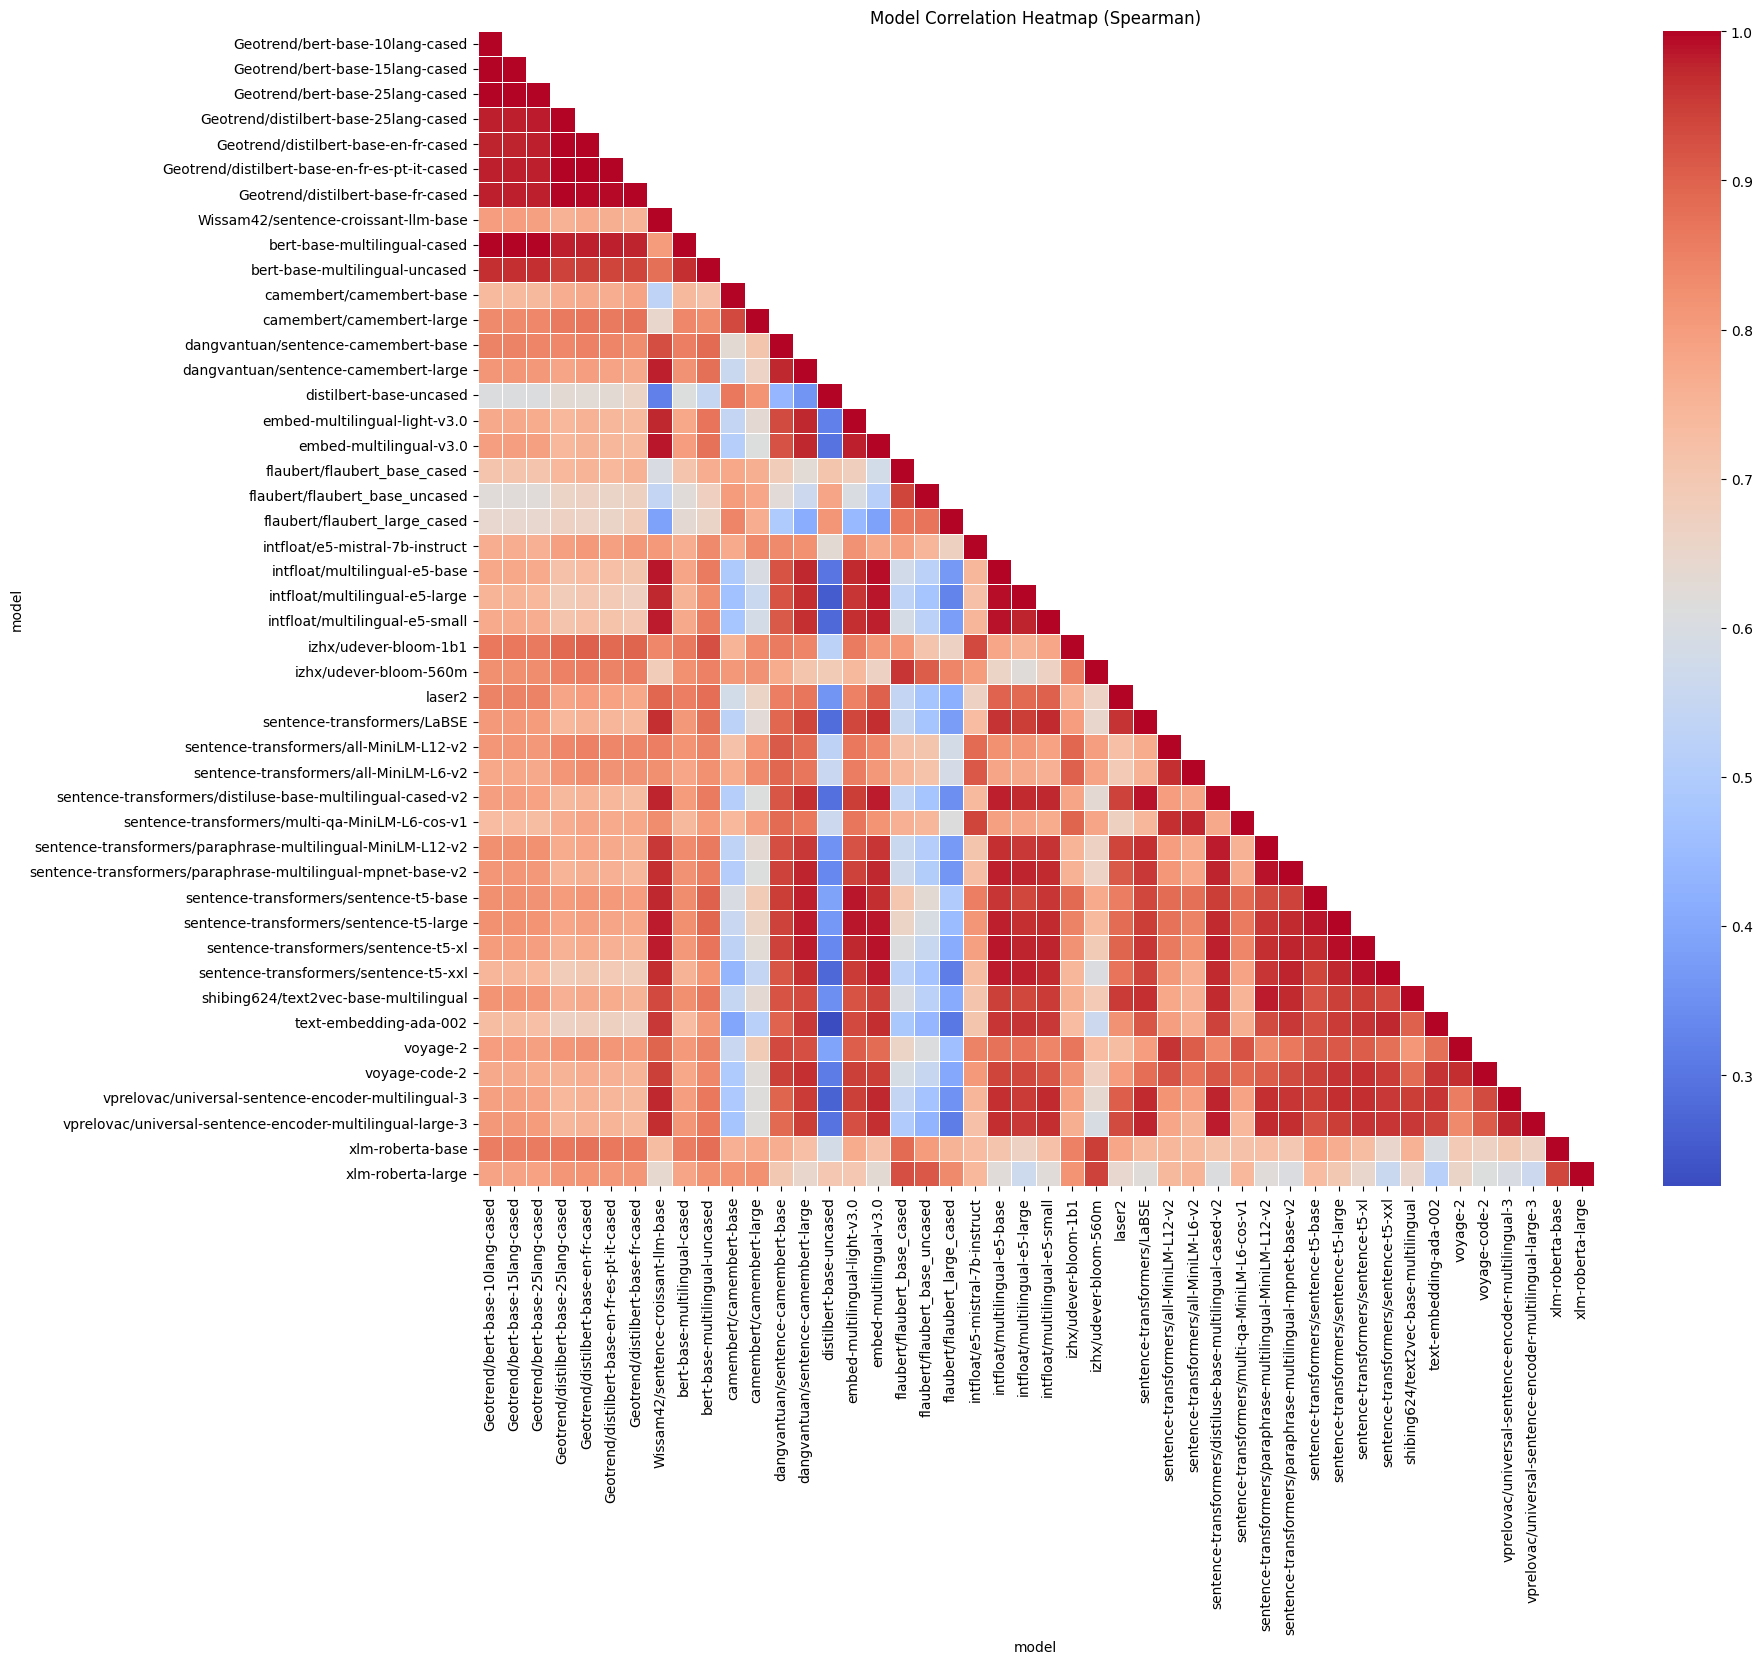
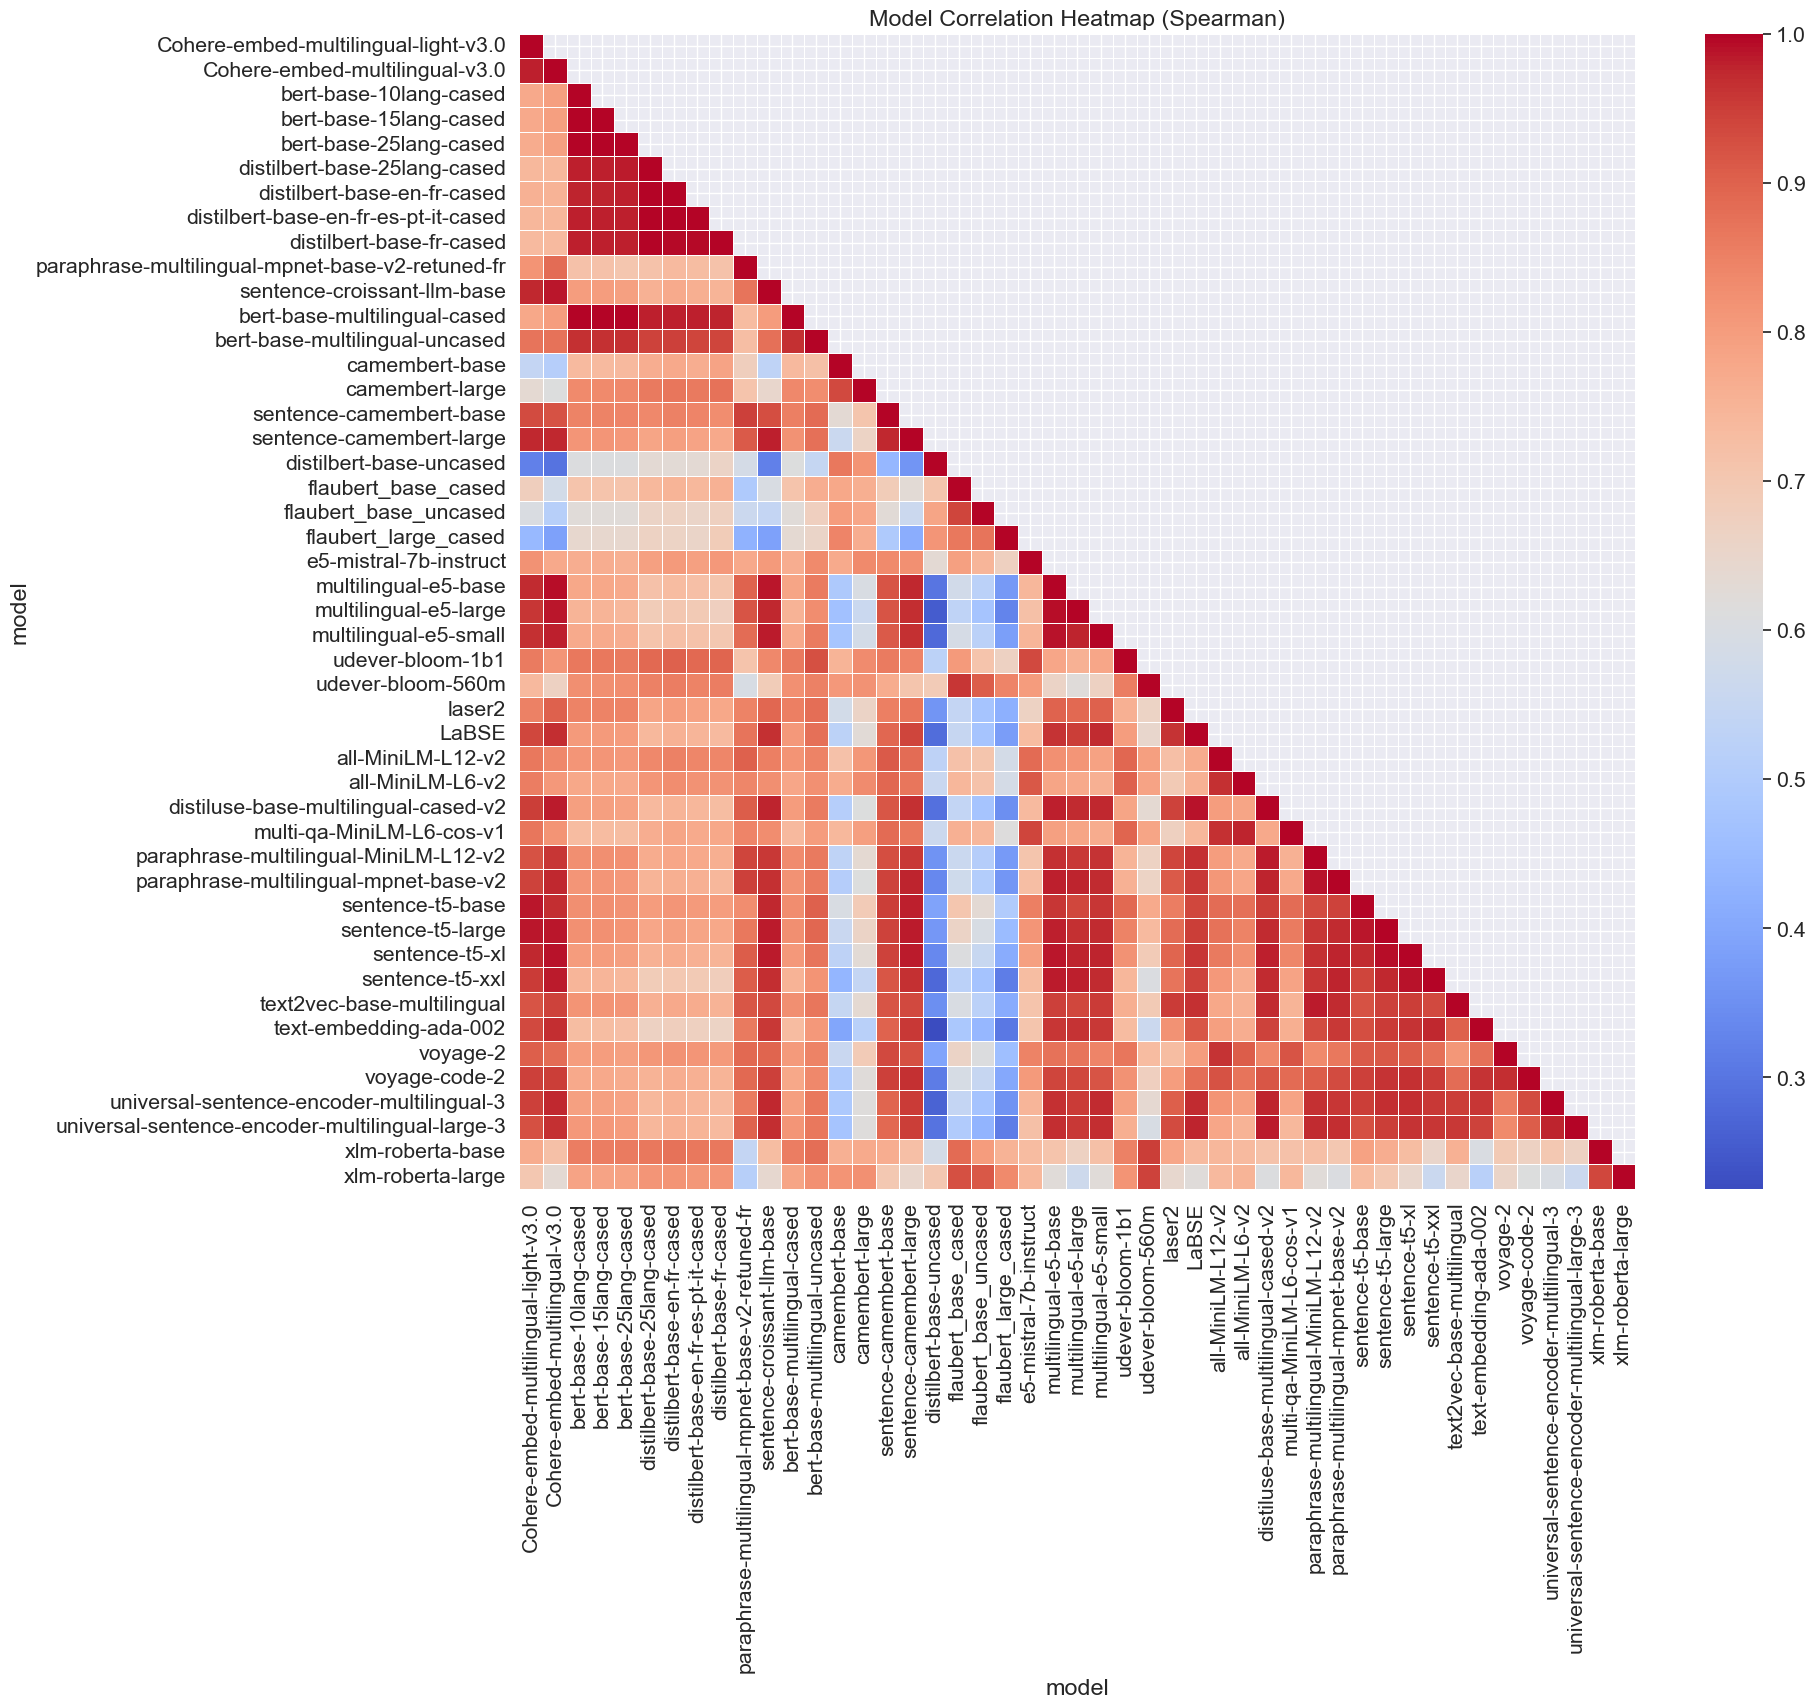
fix model names in heatmap

diff --git a/script_mteb_french/results_analysis/dataset_correlation.py b/script_mteb_french/results_analysis/dataset_correlation.py
@@ -30,7 +30,7 @@ if __name__ == "__main__":
     results_df = rp(args.results_folder, return_main_scores=False)
     results_df = results_df.droplevel(0, axis=1)
     results_df.index = results_df.index.map(
-        lambda x: x.replace(args.results_folder, "")
+        lambda x: x.split('/')[-1]
     )
     print(results_df.shape)
     # Prepare output folder
@@ -66,6 +66,7 @@ if __name__ == "__main__":
     spearman_corr_matrix_models = (spearman_corr_matrix_models.fillna(0) * mask).map(
         lambda x: np.nan if x == 0 else x
     )
+    sns.set(font_scale=1.4)
     sns.heatmap(spearman_corr_matrix_models, fmt=".2f", linewidths=0.5, cmap="coolwarm")
     plt.title("Model Correlation Heatmap (Spearman)")
     plt.savefig(
